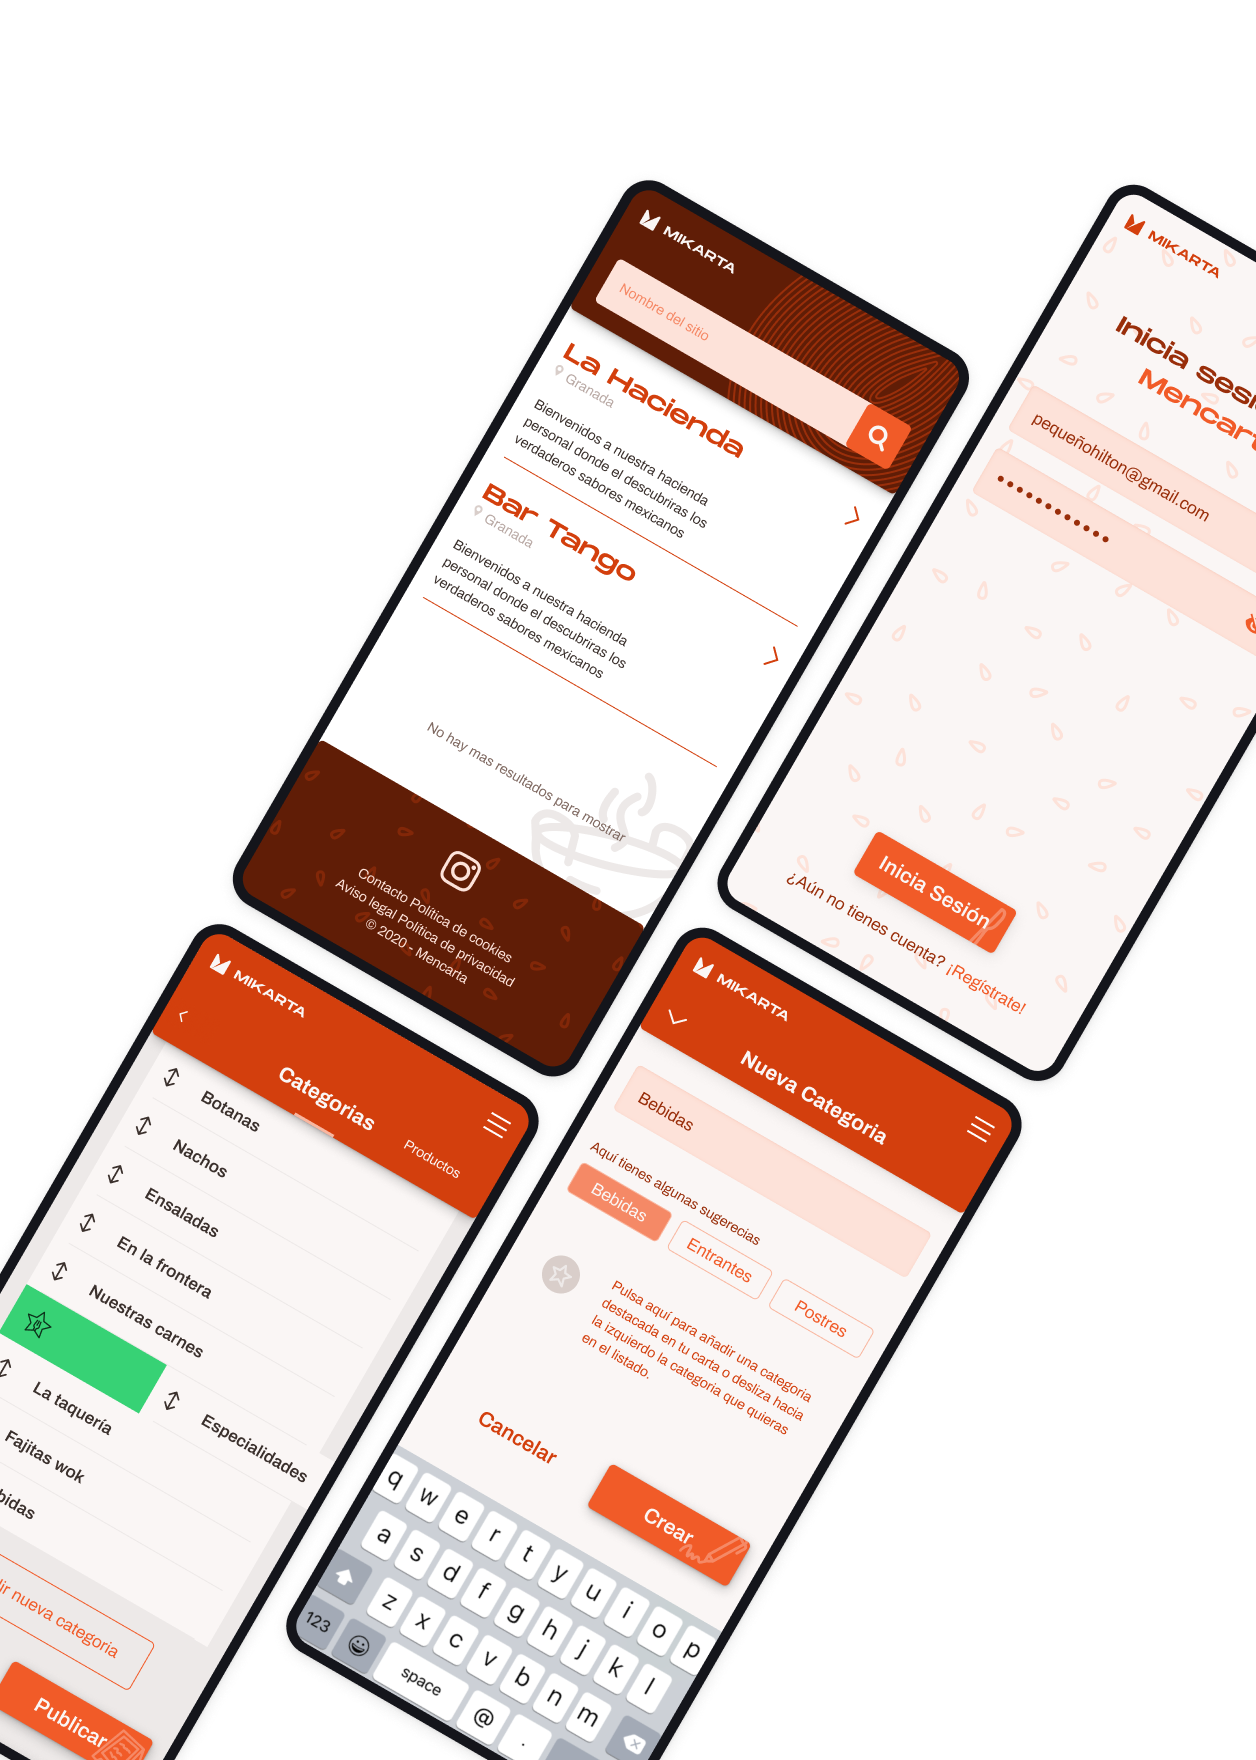
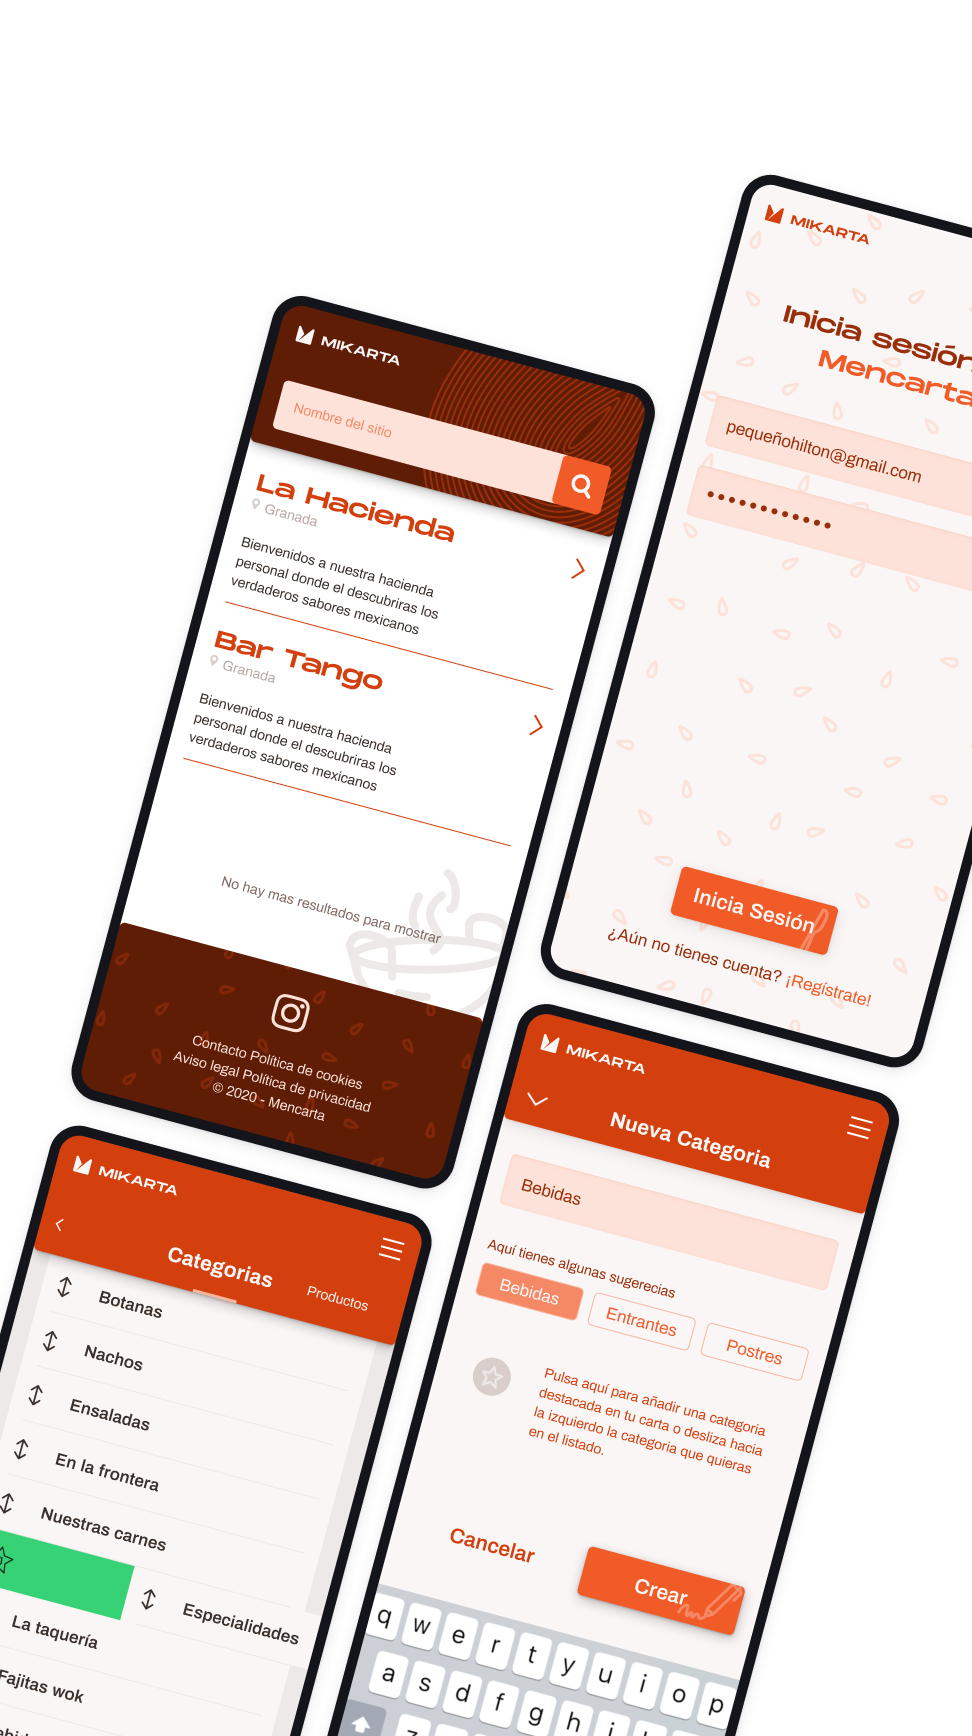
domingo

diff --git a/proyectos/mikarta/mikarta.html b/proyectos/mikarta/mikarta.html
@@ -325,8 +325,8 @@
     <section class="animaciones">
         <div class="wrapper_section">
             <div class="triple_column">
-                <div class="aspect_ratio marco_phone">
-                    <lottie-player src="https://assets10.lottiefiles.com/packages/lf20_t5kkxhdl.json"  background="transparent"  speed="1"  style="max-width: 367.5px; margin-top: -60px;"  loop autoplay></lottie-player>
+                <div class="marco_phone">
+                    <lottie-player style="margin-bottom: -10px;" src="https://assets6.lottiefiles.com/packages/lf20_cqdlzkwb.json"  background="transparent"  speed="1" loop  autoplay></lottie-player>
                 </div>
 
                 <div class="prueba">

diff --git a/proyectos/mikarta/stylesmikarta.css b/proyectos/mikarta/stylesmikarta.css
@@ -17,7 +17,7 @@ img{
 .triple_column{
     grid-template-areas: '.. MyArea';
     grid-template-columns: repeat(2, auto);
-    grid-gap: 30px;
+    grid-gap: 20px;
     display: grid;
 }
 
